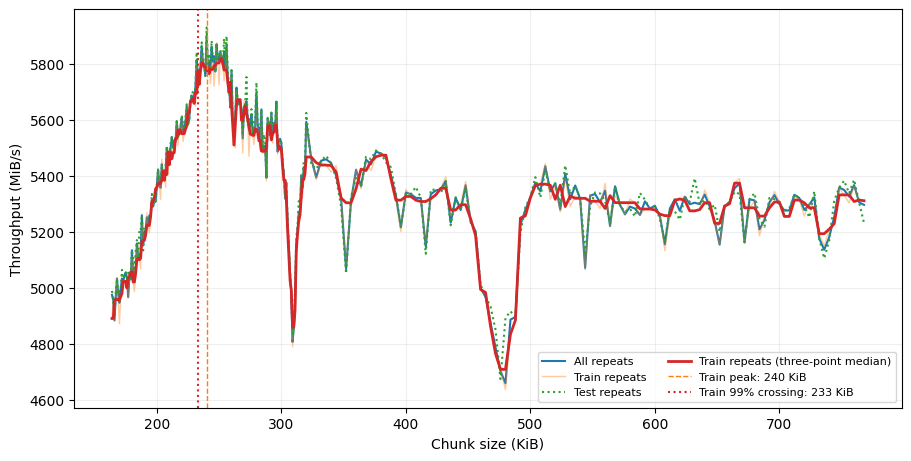
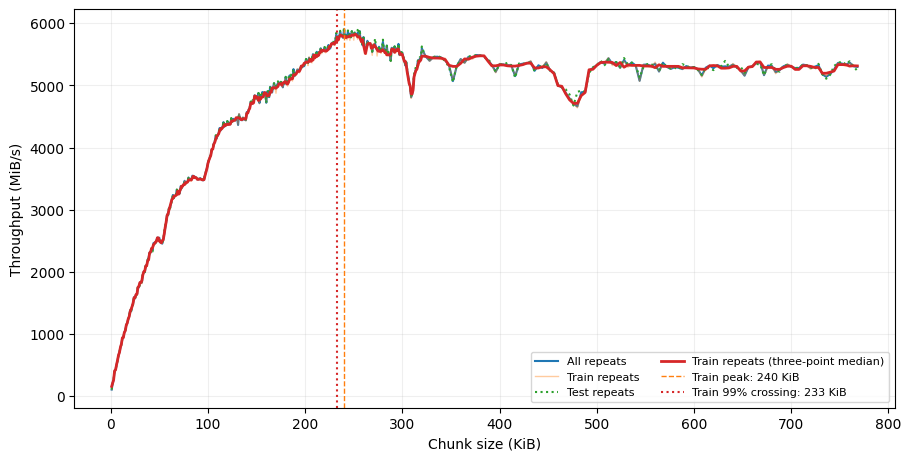
3-1

diff --git a/report-v2/readme.md b/report-v2/readme.md
@@ -632,7 +632,7 @@ $$
 
 #### 3.1.2 모델의 적합과 평가
 
-7회 반복 중 앞의 4회로 모델을 적합하고, 나머지 3회로 오차를 평가하였다. 각 요청 크기에서 적합용 반복의 중앙값을 $T_{\mathrm{train}}(z)$, 평가용 반복의 중앙값을 $T_{\mathrm{test}}(z)$라 하자. 모델의 계수와 전환점은 모두 적합용 자료만으로 결정하였다.
+7회 반복 중 앞의 4회를 train 자료, 나머지 3회를 test 자료라 부른다. 모델은 train 자료에 적합하고, 오차는 적합에 쓰지 않은 test 자료로 평가하였다. 각 요청 크기에서 train 자료의 중앙값을 $T_{\mathrm{train}}(z)$, test 자료의 중앙값을 $T_{\mathrm{test}}(z)$라 하자. 모델의 계수와 전환점은 모두 train 자료만으로 결정하였다.
 
 모델 적합에는 행 수 대신 요청 크기 $z$를 사용한다. 2.2절의 $\alpha,\lambda,\ell_0$에 대응하는 KiB 단위 계수와 전환점을 각각 $\alpha_z,\lambda_z,z_0$라 하자. 가중치 한 행의 크기가 $w$ KiB이면 $z=w\ell$이므로, 행 단위 모델과는 다음 관계를 갖는다.
 
@@ -644,7 +644,7 @@ $$
 \ell_0=\frac{z_0}{w}.
 $$
 
-2.2절의 계수 제약을 유지하면서, 측정한 각 크기를 전환점 후보로 두고 비음수 최소제곱법으로 계수를 적합하였다. 그중 적합용 RMSE가 가장 작은 전환점을 선택하였다. 모든 크기에 같은 가중치를 부여하였으므로, 측정 간격이 촘촘한 320 KiB 이하 구간이 더 많은 관측값을 제공한다.
+2.2절의 계수 제약을 유지하면서, 측정한 각 크기를 전환점 후보로 두고 비음수 최소제곱법으로 계수를 적합하였다. 그중 train RMSE가 가장 작은 전환점을 선택하였다. 모든 크기에 같은 가중치를 부여하였으므로, 측정 간격이 촘촘한 320 KiB 이하 구간이 더 많은 관측값을 제공한다.
 
 비교 모델로는 연속된 두 직선으로 구성된 hinge 모델과, 하나의 직선으로 구성된 affine 모델을 사용하였다.
 
@@ -655,48 +655,50 @@ T_{\mathrm A}(z)&=a_{\mathrm A}+b_{\mathrm A}z.
 \end{aligned}
 $$
 
-Hinge 모델은 큰 요청에서 비용이 요청 크기에 정비례해야 한다는 제약을 두지 않는다. Hinge의 전환점도 적합용 RMSE로 선택하였다.
+Hinge 모델은 큰 요청에서 비용이 요청 크기에 정비례해야 한다는 제약을 두지 않는다. Hinge의 전환점도 train RMSE로 선택하였다.
 
 평가는 적합된 모델의 예측값과 $T_{\mathrm{test}}(z)$를 비교하여 수행하였다. RMSE는 비용 예측의 절대적인 오차 크기를, MAPE는 측정 비용 대비 절대 오차의 평균 비율을 나타낸다. 적합과 평가는 같은 432개 요청 크기를 사용하며, 반복 측정 자료를 분리하였다.
 
 #### 3.1.3 결과와 해석
 
-그림 3.1-1은 요청 크기별 처리량 중 포화 부근을 보여준다. 적합용 자료에서 처리량이 가장 높은 측정 크기는 240 KiB였다. 처리량에 3점 이동 중앙값을 적용한 뒤 최고값의 99%에 처음 도달한 크기는 233 KiB였다.
+그림 3.1-1은 측정한 모든 요청 크기에서의 처리량을 보여준다. 처리량은 작은 요청에서 크기와 함께 빠르게 오르다가 240 KiB 부근에서 포화한다. Train 자료에서 처리량이 가장 높은 측정 크기는 240 KiB였다. 처리량에 3점 이동 중앙값을 적용한 뒤 최고값의 99%에 처음 도달한 크기는 233 KiB였다.
 
 <figure class="report-figure">
   <img src="figures/01/01_throughput.png" alt="요청 크기에 따른 처리량과 최고 처리량 및 99% 도달 위치">
-  <figcaption><em>그림 3.1-1. 전체·적합용·평가용 반복의 읽기 비용 중앙값으로 환산한 처리량. 수직선은 적합용 자료의 최고 처리량 위치와, 3점 이동 중앙값을 적용한 처리량의 99% 도달 위치를 나타낸다.</em></figcaption>
+  <figcaption><em>그림 3.1-1. 전체·train·test 자료의 읽기 비용 중앙값으로 환산한 처리량. 수직선은 train 자료의 최고 처리량 위치와, 3점 이동 중앙값을 적용한 처리량의 99% 도달 위치를 나타낸다.</em></figcaption>
 </figure>
 
-Two-line 모델의 적합 전환점은 208 KiB로 선택되었다. 이 값은 전체 측정 크기에 대한 적합 오차를 최소화한 결과이며, 위의 두 처리량 지표와는 구분한다. 적합된 비용 계수는
+Two-line 모델의 전환점은 $z_0=208$ KiB로 선택되었다. 이 값은 전체 측정 크기에 대한 train RMSE를 최소화한 결과이며, 위의 두 처리량 지표와는 구분한다. 적합된 모델은 이 전환점에서 꺾이며, $z$를 KiB, 비용을 µs로 두면
 
 $$
-\alpha_z\approx0.183823\;\mathrm{\mu s/KiB},
-\qquad
-\lambda_z\approx0.058754\;\mathrm{\mu s/KiB}
+T_{\mathrm{2L}}(z)\approx
+\begin{cases}
+12.22+0.1251\,z, & 0<z<208,\\
+0.1838\,z, & z\ge208
+\end{cases}
 $$
 
-이다.
+이다. 2.2절의 기호로는 $\alpha_z\approx0.1838\;\mathrm{\mu s/KiB}$, $\lambda_z\approx0.0588\;\mathrm{\mu s/KiB}$이다.
 
-그림 3.1-2는 평가용 측정값과 각 모델의 예측 곡선을 비교한다. 표에는 전환점을 적합한 two-line 및 hinge 모델과 affine 모델의 오차를 정리하였다.
+그림 3.1-2는 test 자료의 측정값과 각 모델의 예측 곡선을 비교한다. 표에는 전환점을 적합한 two-line 및 hinge 모델과 affine 모델의 오차를 정리하였다.
 
 <figure class="report-figure">
-  <img src="figures/01/02_model_fit.png" alt="평가용 읽기 비용과 two-line, hinge, affine 모델의 예측 곡선">
-  <figcaption><em>그림 3.1-2. 요청 크기별 읽기 비용의 측정값과 모델 예측. Test profile은 평가용 반복의 중앙값이다. Two-line (free)는 표의 Two-line 모델이며, Two-line (efficiency)는 전환점을 최고 처리량 크기인 240 KiB로 고정한 비교 설정이다.</em></figcaption>
+  <img src="figures/01/02_model_fit.png" alt="Test 자료의 읽기 비용과 two-line, hinge, affine 모델의 예측 곡선">
+  <figcaption><em>그림 3.1-2. 요청 크기별 읽기 비용의 측정값과 모델 예측. Test profile은 test 자료의 중앙값이다. Two-line (free)는 표의 Two-line 모델이며, Two-line (efficiency)는 전환점을 최고 처리량 크기인 240 KiB로 고정한 비교 설정이다.</em></figcaption>
 </figure>
 
-| 모델 | 전환점 (KiB) | 적합 RMSE (µs) | 평가 RMSE (µs) | 평가 MAPE (%) |
+| 모델 | 전환점 (KiB) | Train RMSE (µs) | Test RMSE (µs) | Test MAPE (%) |
 | --- | ---: | ---: | ---: | ---: |
 | Two-line | 208 | 2.076 | 2.043 | 3.415 |
 | Hinge | 233 | 1.814 | 1.731 | 2.707 |
 | Affine | — | 3.887 | 3.909 | 10.467 |
 
-Two-line 모델은 affine 모델보다 작은 평가 오차를 보였으며, 평가 RMSE는 2.043 µs, MAPE는 3.415%였다. 적합 RMSE와 평가 RMSE도 비슷하여, 적합에 사용하지 않은 반복 측정에서도 유사한 근사 정확도를 보였다. 다만 비교 모델 중 평가 오차가 가장 작은 것은 hinge 모델이었다.
+Two-line 모델은 affine 모델보다 작은 test 오차를 보였으며, test RMSE는 2.043 µs, test MAPE는 3.415%였다. Train RMSE와 test RMSE도 비슷하여, 적합에 사용하지 않은 반복 측정에서도 유사한 근사 정확도를 보였다. 다만 비교 모델 중 test 오차가 가장 작은 것은 hinge 모델이었다.
 
-크기별 오차를 더 자세히 보기 위해, 그림 3.1-3에 예측값에서 평가용 측정값을 뺀 잔차를 나타내었다. 예를 들어 약 480 KiB에서는 여러 모델이 실제 읽기 비용을 낮게 예측하며, 이는 그림 3.1-1에서 나타난 처리량 하락과 대응한다.
+크기별 오차를 더 자세히 보기 위해, 그림 3.1-3에 예측값에서 test 자료의 측정값을 뺀 잔차를 나타내었다. 예를 들어 약 480 KiB에서는 여러 모델이 실제 읽기 비용을 낮게 예측하며, 이는 그림 3.1-1에서 나타난 처리량 하락과 대응한다.
 
 <figure class="report-figure">
-  <img src="figures/01/03_residuals.png" alt="각 모델의 예측 비용에서 평가용 측정 비용을 뺀 잔차">
+  <img src="figures/01/03_residuals.png" alt="각 모델의 예측 비용에서 test 자료의 측정 비용을 뺀 잔차">
   <figcaption><em>그림 3.1-3. 요청 크기별 예측 잔차. 양수는 읽기 비용의 과대 예측, 음수는 과소 예측을 의미한다.</em></figcaption>
 </figure>
 
